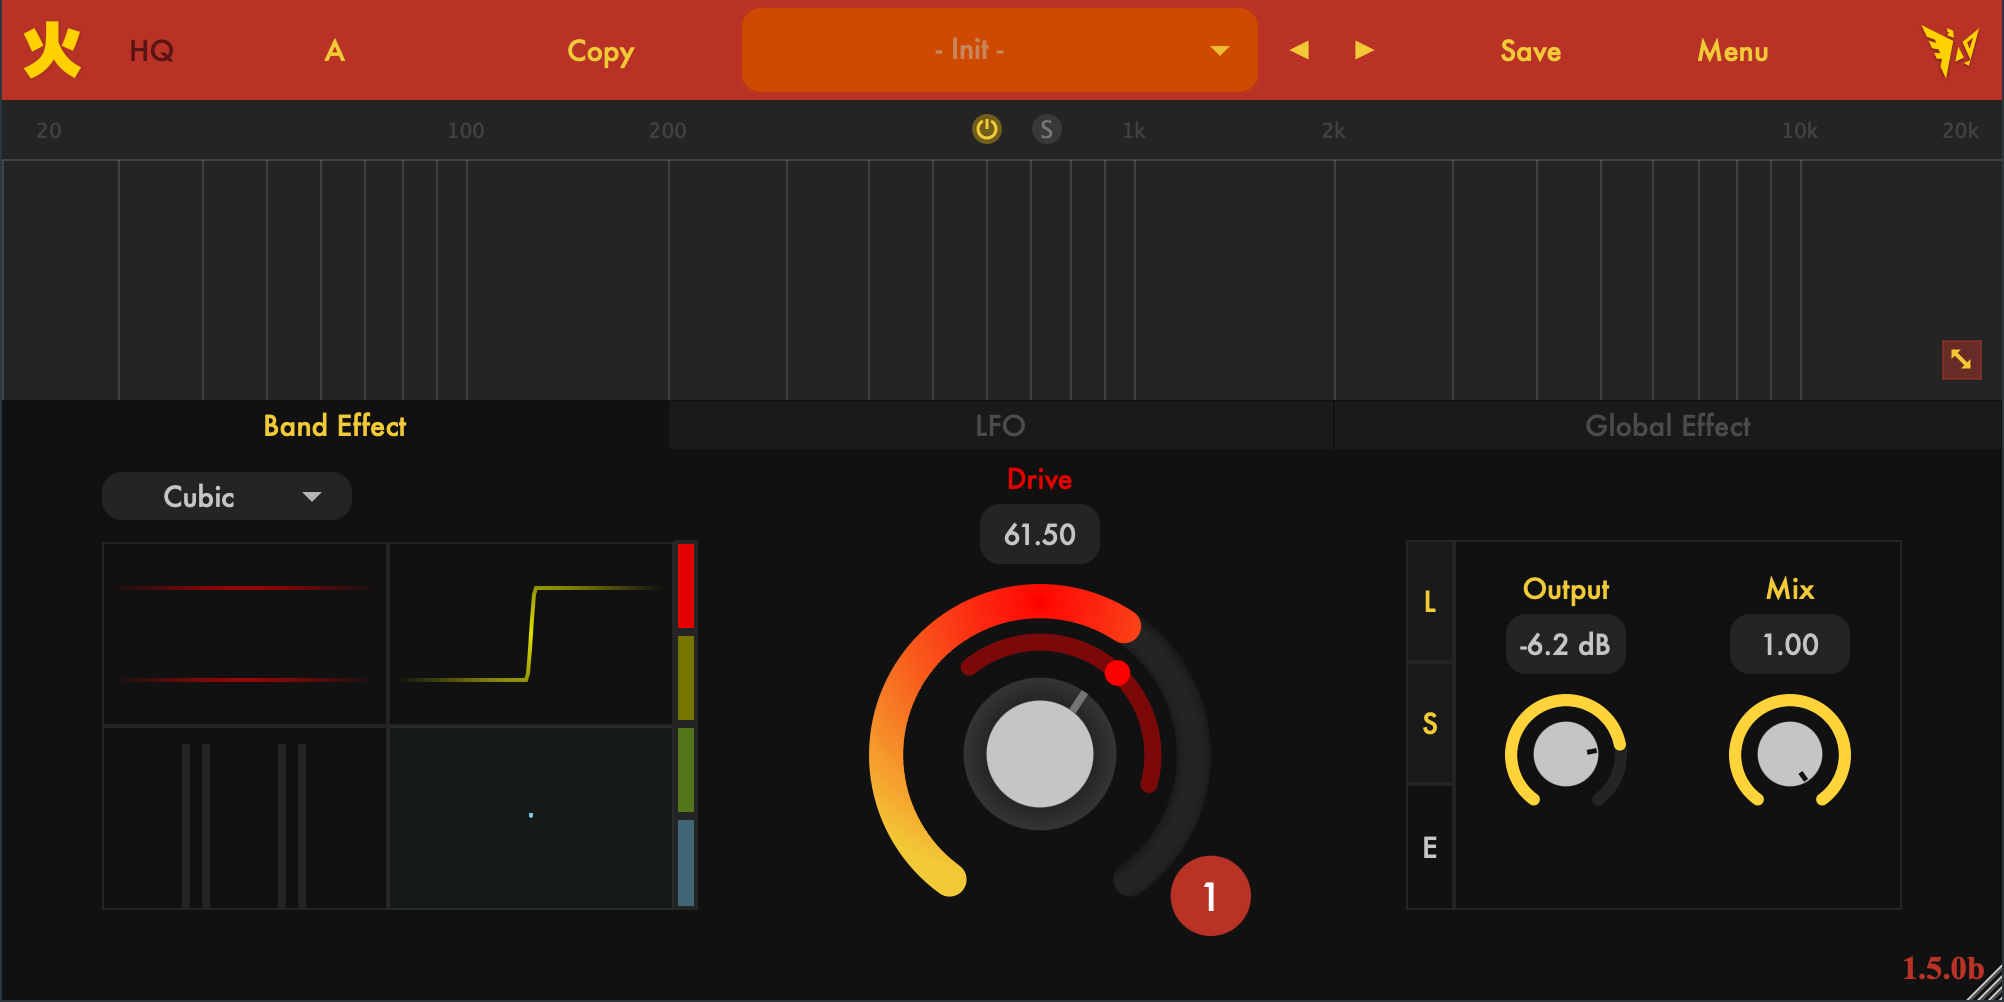
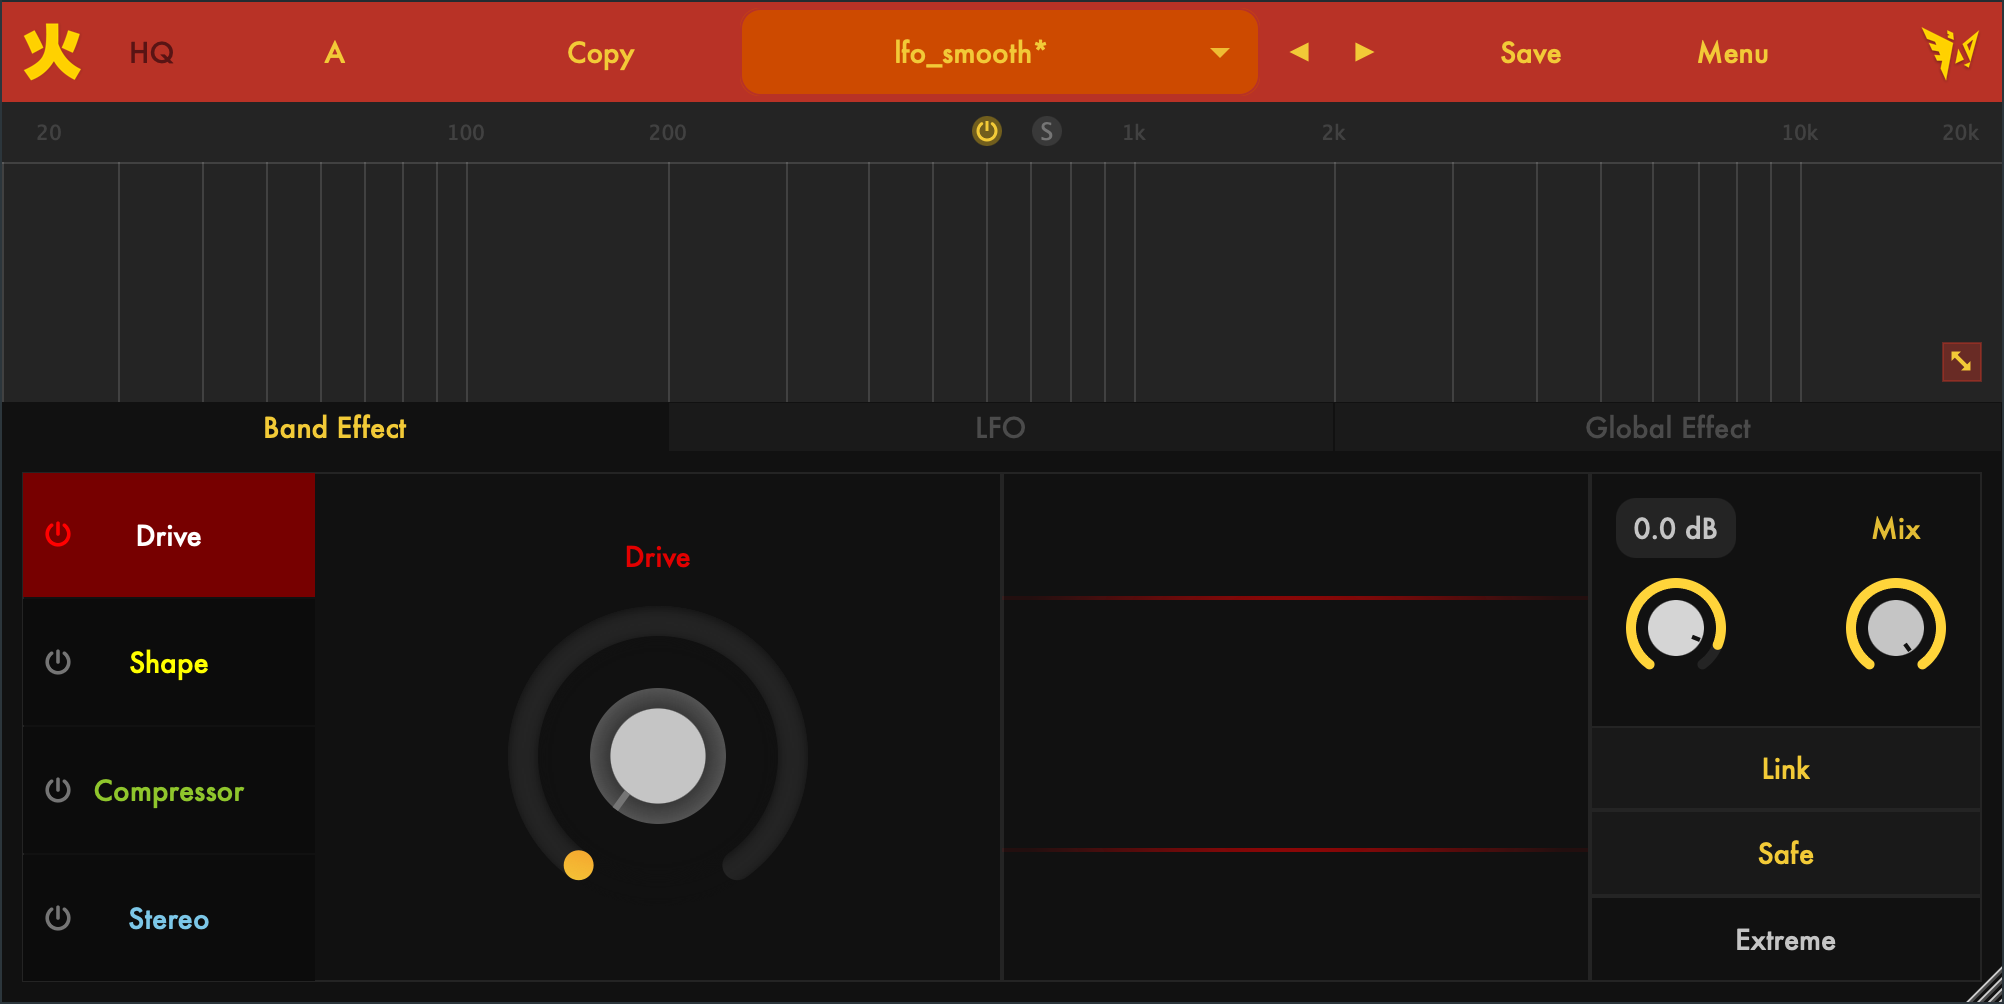
update README.md

diff --git a/README.md b/README.md
@@ -12,9 +12,9 @@ This is a multi-band distortion plugin [『Fire』](https://www.bluewingsmusic.c
 
 Demo video:
 
-(YouTube) <https://youtu.be/sccW_8W_0o4>
+(YouTube) <https://youtu.be/U5UTz6kWVE4>
 
-(Bilibili) <https://www.bilibili.com/video/BV17f4y1M7Hm>
+(Bilibili) <https://www.bilibili.com/video/BV11MWpzUEKA/>
 
 :musical_note: Home Page for Wings Music: [Blue Wings Music](https://www.bluewingsmusic.com/)
 
@@ -160,15 +160,7 @@ Builds/Fire_artefacts/Release/
 
 - You can split up frequency to four bands for multiband distortion.
 
-### 3.3. Graph Visualizer
-
-- There are four graph visualizers. You can click on each graph to zoom in or zoom out.
-- Top left is oscilloscope.
-- Top right is distortion graph.
-- Bottom Left is VU meters.
-- Bottom right is Width graph.
-
-### 3.4. Band Effect
+### 3.3. Band Effect
 
 - You can click four switches on the right side of graphs.
 - **Drive**:『Fire』 has several distortion functions. There are three buttons "L", "S", "E", related to drive knob, and each means "Link", "Safe", and "Extreme".
@@ -176,17 +168,18 @@ Builds/Fire_artefacts/Release/
   - **Safe**: If your drive knob pushes your volume too loud, it will automatically reduce your drive value. It also shows reduced value on drive knob.
   - **Extreme**: It expands the range of the the drive knob (from around +40db to around +60db) when it is enabled to give more distortion.
 - **Retification and bias**: Change your distortion shape.
-- **Compressor**: you can change threshold and ratio for each band.
-- **Width**: change audio width.
-- **Output and mix**: Only for distortion part, will not affect compressor and width.
+- **Compressor**: You can change threshold, ratio, attack, and release for each band.
+- **Stereo**: Change audio width and pan.
+- **Output and mix**: For each bandm you can change the output and the mix.
 
-### 3.5. LFO / Modulation
+### 3.4. LFO / Modulation
 
 『Fire』 includes four fully customizable LFOs that can be used to modulate various parameters.
 
 - **LFO Selection**: On the left, click the "LFO 1" through "LFO 4" buttons to select which LFO you are editing.
 - **Rate & Sync**: The **Rate** knob controls the LFO speed. Click the **BPM** button to toggle synchronization with your DAW's tempo.
 - **Smooth**: Adjusts the smoothness of the LFO shape.
+- **Phase**: Adjusts the starting point (phase) of the LFO shape.
 - **Grid**: The X and Y controls adjust the grid divisions in the editor for visual guidance and snapping.
 
 #### LFO Editor
@@ -220,7 +213,7 @@ The main LFO display allows you to create complex modulation shapes. It has two 
 - **Matrix Button**: Opens the Modulation Matrix window, where you can assign LFOs to control plugin parameters.
 - **Assign Button**: Engages "Assign Mode." While active, the next parameter you click in the plugin will be automatically assigned to the currently selected LFO.
 
-### 3.6. Global Effect
+### 3.5. Global Effect
 
 - **Filter**: you can set lowcut, highcut, and peak. Lowcut and highcut each has four slopes (12, 24, 36, 48) you can choose.
 - **Downsample**: downsample your audio.
@@ -256,7 +249,7 @@ I am also a music producer (Artist name: 羽翼深蓝 - BlueWings). Check out my
 
 ## 6. Update Notes
 
-### 2025-10-07 (version 1.5.0)
+### 2025-10-18 (version 1.5.0)
 
 This is a major feature update that introduces a comprehensive LFO modulation system and involves a significant refactoring of the plugin's core architecture.
 
@@ -267,6 +260,7 @@ This is a major feature update that introduces a comprehensive LFO modulation sy
     - **Modulation Matrix**: A dedicated matrix panel to manage all modulation routings in one place.
     - **BPM Sync & Free (Hz) Modes**: Each LFO can be synchronized to the host's BPM or run freely in Hz.
     - **Quick Modulation Assignment**: A new "Assign" mode allows you to click any knob to instantly map it as a modulation target.
+    - **Other New Features**: Features like attack / release for compressor, new pan for stereo, and more downsample controls!
 
 2. **Major Code Refactoring**:
     - I refactored both UI and DSP code of this plugin so it is easier to modify and understand now.
